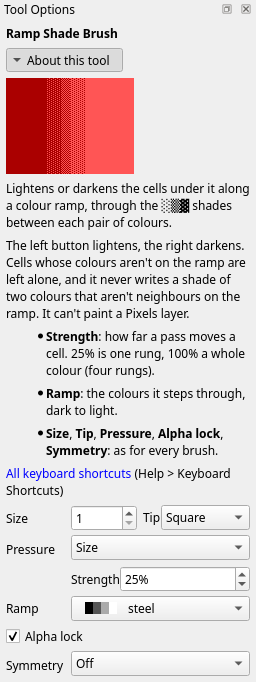
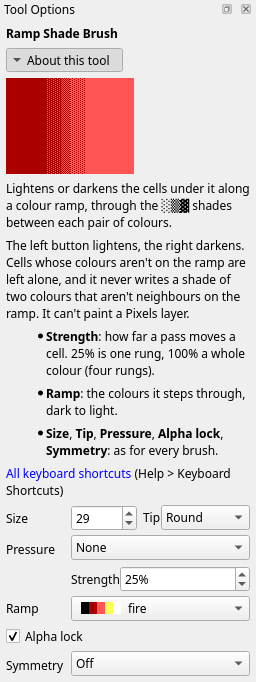
Tutorials 04–07, 09: dock pictures show each step's settings; checked against fd10778 (#22)
Tutorials 04–07 and 09 are checked against Blockwright fd10778. The twelve Tool Options pictures in 04–07 are regenerated with `blockwright --screenshot` from Blockwright #389, and each one now shows the settings in force at the step it is taken at: the options that step sets, and the rest as the steps before it left them. Before #389 these pictures showed the editor's default brush settings; only the tool and alpha lock followed the steps. The alt texts and lead-ins now name those settings and the step, and PLAN rows 04–07, 09 and §4.5 are updated to match.

diff --git a/PLAN.md b/PLAN.md
@@ -41,12 +41,12 @@ Status is against Blockwright's `main` on 2026-11-05 (`06fbac5`). Issue and PR n
 | 01 | What ANSI art is | Cells, CP437 glyphs, 16 colours, foreground and background, 80 columns, reading a piece at 1× | Written, checked against `c44974c` |
 | 02 | Your first piece | Keyboard mode, F-key glyph sets (Ctrl+, Ctrl+. Ctrl+/), the pen (Ctrl+arrows, Ctrl+D), undo, Save, the SAUCE dialog | Written, checked against `c44974c`; no window pictures yet (`--screenshot`, #374, can take them now) |
 | 03 | Pixels with half blocks | Why ▀▄█ make two pixels a cell; half-block brush, 4- vs 8-connected pencil, line, rectangle, ellipse, Filled Shapes, fill, eyedropper; iCE colours and bright backgrounds | Written, checked against `c44974c`; no window pictures yet (`--screenshot`, #374, can take them now) |
-| 04 | Shading: the ladder | ░▒▓ as rungs between two colours, the ten shipped ramps, the shade brush, the ramp shade brush, strength, pressure, alpha lock | Written, checked against `48592c8`: step pictures from `replay` steps files, dock pictures from `--screenshot`, final piece and Try-it file `.bwp` from `replay --project`; pressure is described, not pictured (§4) |
-| 05 | Shading: forms and falloff | Form shading (dome, cylinder, plane), soft falloff, ramp gradient tool, blend/smudge, despeckle | Written, checked against `749832e`: step pictures from `replay` steps files, dock pictures from `--screenshot` (they show each tool's default settings), final piece and Try-it file `.bwp` from `replay --project`; 4×4 Bayer banding is described, not pictured |
-| 06 | Light | Choosing a light direction, the rim light brush (Ctrl+Shift+L) and its eight compass points, form shading's light, highlights and glints; where the rim light can't help (counters, thin bars, canvas edges) | Written, checked against `30be847`: step pictures from `replay` steps files, dock pictures from `--screenshot` (they show each tool's default settings), final piece and Try-it file `.bwp` from `replay --project` |
-| 07 | Detail | Outline brush, texture stamps, glyph spray, clone stamp, symmetry: mirror X/Y, both, radial 2–8 | Written, checked against `2e5b906`: step pictures from `replay` steps files, dock pictures from `--screenshot` (they show each tool's default settings), final piece and Try-it file `.bwp` from `replay --project`; the clone stamp is described, not pictured (`replay` has no clone action, and `--screenshot` can't select its tool) |
+| 04 | Shading: the ladder | ░▒▓ as rungs between two colours, the ten shipped ramps, the shade brush, the ramp shade brush, strength, pressure, alpha lock | Written, checked against `fd10778`: step pictures from `replay` steps files, dock pictures from `--screenshot` (Tool Options set as the step it is taken at), final piece and Try-it file `.bwp` from `replay --project`; pressure is described, not pictured (§4) |
+| 05 | Shading: forms and falloff | Form shading (dome, cylinder, plane), soft falloff, ramp gradient tool, blend/smudge, despeckle | Written, checked against `fd10778`: step pictures from `replay` steps files, dock pictures from `--screenshot` (Tool Options set as the step it is taken at), final piece and Try-it file `.bwp` from `replay --project`; 4×4 Bayer banding is described, not pictured |
+| 06 | Light | Choosing a light direction, the rim light brush (Ctrl+Shift+L) and its eight compass points, form shading's light, highlights and glints; where the rim light can't help (counters, thin bars, canvas edges) | Written, checked against `fd10778`: step pictures from `replay` steps files, dock pictures from `--screenshot` (Tool Options set as the step it is taken at), final piece and Try-it file `.bwp` from `replay --project` |
+| 07 | Detail | Outline brush, texture stamps, glyph spray, clone stamp, symmetry: mirror X/Y, both, radial 2–8 | Written, checked against `fd10778`: step pictures from `replay` steps files, dock pictures from `--screenshot` (Tool Options set as the step it is taken at), final piece and Try-it file `.bwp` from `replay --project`; the clone stamp is described, not pictured (`replay` has no clone action, and `--screenshot` can't select its tool) |
 | 08 | Composing a scene | Selections, move, flip, rotate, paste modes (normal, transparent, under), guides, reference image, Library stamps, Scene Starter | Selections, move/transform, flip, rotate, paste modes, guides, reference image and the Library (dock, Save to Library) merged; the Scene Starter isn't on `main`; samples and Try-it file are `.bwp` (§6) |
-| 09 | Layers and projects | Layer kinds (cells, pixels, text, generator, reference), compositing, the project file, snapshots | Written, checked against `b771df7`: step pictures and Try-it file `.bwp` from `replay --project` steps files, dock pictures from `--screenshot`, snapshots from `blockwright-cli snapshot` (the same snapshot as **File > Take Snapshot**, which `replay` has no action for), the flat copy from `convert`; Text, Generator and Reference layers and the layer modes are described, not pictured (Text layers are 10's, generators 12's, the reference image 08's; the app has no control for the mode) |
+| 09 | Layers and projects | Layer kinds (cells, pixels, text, generator, reference), compositing, the project file, snapshots | Written, checked against `fd10778`: step pictures and Try-it file `.bwp` from `replay --project` steps files, dock pictures from `--screenshot`, snapshots from `blockwright-cli snapshot` (the same snapshot as **File > Take Snapshot**, which `replay` has no action for), the flat copy from `convert`; Text, Generator and Reference layers and the layer modes are described, not pictured (Text layers are 10's, generators 12's, the reference image 08's; the app has no control for the mode) |
 | 10 | Letters and text | Lettering by hand, letters that misread at 1× (C/G, R/A, 0/D), TDF text layers | Ready to write: the Text tool and TDF fonts merged (#18) |
 | 11 | Made for IRC | The 407-byte line budget, trailing black and blank rows, glyphs CP437 can't hold, `export --irc`, the row meter, IRC view, lint panel, publish | Ready to write: `export --irc`, the row meter, IRC view, lint panel and publish merged (#14, #15, #16) |
 | 12 | Scripts and generators | Generator layers, parameter forms, smart prefabs, the headless CLI | Generator layers and their parameter forms merged (#17); smart prefabs aren't on `main`; CLI `render`, `convert`, `export`, `shade`, `lint`, `replay` merged; samples are `.bwp` (§6) |
@@ -88,7 +88,7 @@ Findings from reading Blockwright's `PLAN.md` and its CLI on 2026-10-23, brought
 2. **Pictures with a layer hidden.** No command renders a project with a layer left out, but `render` honours each layer's `visible` flag in a project directory: `blockwright-cli unpack final.bwp dir`, set `"visible": false` in `dir/layers/<id>.json`, then `blockwright-cli render dir out.png`. Checked against `c44974c` on a three-layer project: hiding the middle layer leaves the other two. Until Blockwright has a flag for it, a "with this layer hidden" picture is made that way, by the build or a sample script, never saved by hand.
 3. **The shortcuts page and the menu reference come from `blockwright --list-actions`** (#209): every menu and dock action as JSON, with its id, menu path, text, shortcuts and tooltip. The build doesn't read it yet; 04's menu paths and shortcuts were checked against it.
 4. **The CLI page is generated** from `blockwright-cli --help` and each command's help.
-5. **Window screenshots come from `blockwright --screenshot <steps.json> -o <dir>`** (#374, the first slice of #295, which stays open). It plays the same steps file as `replay` in the main window, offscreen, and saves the window, a dock or a crop per step. At `06fbac5` the Tool Options widgets and the palette show the app's defaults, not a step's brush options: only the selected tool, the layers, alpha lock and the lint follow the steps. So a tutorial pictures the docks that follow (Tool Options for which settings a tool has, the Layers and Lint docks), not the window after every step.
+5. **Window screenshots come from `blockwright --screenshot <steps.json> -o <dir>`** (#374, the first slice of #295, which stays open). It plays the same steps file as `replay` in the main window, offscreen, and saves the window, a dock or a crop per step. At `fd10778` (#389) the Tool Options widgets and the palette follow the steps too: each step's options (size, tip, strength, ramp, fg, bg and the rest) are set on them. An option no step has set yet shows what `replay` starts with (size 1, square tip, strength 100%, no pressure, the fire ramp, grey on black), not the editor's defaults; once a step sets it, every later step that leaves it out shows the value the steps before it left (`core/include/blockwright/steps.h:84`), so a step with no options shows what it inherited, not the starting values. A ramp given as palette indexes shows as a **Custom** entry in the ramp list. A top-level `"window": [w, h]` in the steps file (320–4096 a side) sizes the window, 1280×800 without one; the extra height goes to Tool Options. At 1280×800 the Ramp Shade Brush's Strength and Ramp rows are below the fold, so 04–07 take their dock pictures at 1280×1300. A tutorial pictures the docks (Tool Options at the step that uses the settings, the Layers and Lint docks), not the window after every step.
 6. **Rendering is ready.** `render --scale 2` gives the 2× view; `export --irc` gives each line's byte count.
 7. **Before/after toggles** are the one place JavaScript would help. `<details>` or two images side by side do without it.
 

diff --git a/tutorials/05-shading-forms-and-falloff.md b/tutorials/05-shading-forms-and-falloff.md
@@ -1,5 +1,5 @@
 Title: Shading: forms and falloff
-Checked: Blockwright 0.1.0 (749832e)
+Checked: Blockwright 0.1.0 (fd10778)
 
 # Shading: forms and falloff
 
@@ -25,9 +25,9 @@ The rest of the page is the tools that go round a form: the **ramp gradient** fo
 
 ### The form brush
 
-The **Form Brush** (**Tools > Form Brush**, <kbd>Ctrl</kbd>+<kbd>Shift</kbd>+<kbd>T</kbd>) shades a whole shape along the ramp in one click: a solid lit side, the fall, and the shadow side down to black. The shape is the selection, or with nothing selected the cells the click covers; with alpha lock on, those are the layer's opaque cells under the brush. Make the brush big enough to cover the whole shape. Either button does the same. Its options add **Light** and **Form**:
+The **Form Brush** (**Tools > Form Brush**, <kbd>Ctrl</kbd>+<kbd>Shift</kbd>+<kbd>T</kbd>) shades a whole shape along the ramp in one click: a solid lit side, the fall, and the shadow side down to black. The shape is the selection, or with nothing selected the cells the click covers; with alpha lock on, those are the layer's opaque cells under the brush. Make the brush big enough to cover the whole shape. Either button does the same. Its options add **Light** and **Form**, here set for the pillar in step 5 below:
 
-![The Tool Options dock for the Form Brush: a help text, then Size 1 with Tip Square, Pressure Size with Strength 25%, Ramp steel, Light NW with Form Dome, Form rim light unticked with Glint ticked, Alpha lock unticked, and Symmetry Off](../samples/05-shading-forms-and-falloff/form-options.png)
+![The Tool Options dock for the Form Brush: a help text, then Size 30 with Tip Square, Pressure None with Strength 100%, Ramp steel, Light NW with Form Cylinder, Form rim light unticked with Glint ticked, Alpha lock unticked, and Symmetry Off](../samples/05-shading-forms-and-falloff/form-options.png)
 
 **Light** is the compass point the light comes from, **NW** (the upper left) to start with. **Strength** is how far each cell moves toward the tone the form gives it: shade a form at 100%, so every cell gets there. **Form rim light** and **Glint** are about light more than form; leave them as they are until tutorial 06.
 
@@ -47,9 +47,9 @@ The cylinder is nine cells across, too few for the ladder to come down from whit
 
 ### The ramp gradient
 
-The **Ramp Gradient** (**Tools > Ramp Gradient**, <kbd>Ctrl</kbd>+<kbd>Shift</kbd>+<kbd>G</kbd>) fills with a gradient along the ramp: drag from where it starts to where it ends. It fills the selection, or the whole layer with nothing selected, and alpha lock keeps it to the opaque cells, as for the brushes. The left button runs from the **From** rung to the **To** rung; the right runs the other way. Its options:
+The **Ramp Gradient** (**Tools > Ramp Gradient**, <kbd>Ctrl</kbd>+<kbd>Shift</kbd>+<kbd>G</kbd>) fills with a gradient along the ramp: drag from where it starts to where it ends. It fills the selection, or the whole layer with nothing selected, and alpha lock keeps it to the opaque cells, as for the brushes. The left button runs from the **From** rung to the **To** rung; the right runs the other way. Its options, set for the wall in step 2 below:
 
-![The Tool Options dock for the Ramp Gradient: a help text, then Ramp steel, Gradient Linear with Banding Cell-banded, From rung 0 with To rung 12, and Alpha lock unticked](../samples/05-shading-forms-and-falloff/gradient-options.png)
+![The Tool Options dock for the Ramp Gradient: a help text, then Ramp violet, Gradient Radial with Banding Cell-banded, From rung 8 with To rung 1, and Alpha lock unticked](../samples/05-shading-forms-and-falloff/gradient-options.png)
 
 A bar of magenta, selected, before, and after a drag on the violet ramp from its left end to its right, from rung 0 to rung 12:
 
@@ -67,9 +67,9 @@ The radial row is a drag from the middle of its box to the right end, from rung 
 
 ### The soft brush
 
-The **Soft Brush** (**Tools > Soft Brush**, <kbd>Ctrl</kbd>+<kbd>Shift</kbd>+<kbd>N</kbd>) is the ramp shade brush with a soft edge: it moves the middle of the tip the most and its edge a rung, in rings that step down a rung at a time. That fade from the middle to the edge is its **falloff**. The left button lightens and the right darkens. Its options add **Hardness**:
+The **Soft Brush** (**Tools > Soft Brush**, <kbd>Ctrl</kbd>+<kbd>Shift</kbd>+<kbd>N</kbd>) is the ramp shade brush with a soft edge: it moves the middle of the tip the most and its edge a rung, in rings that step down a rung at a time. That fade from the middle to the edge is its **falloff**. The left button lightens and the right darkens. Its options add **Hardness**, here set for the shadows in step 9 below:
 
-![The Tool Options dock for the Soft Brush: a help text, then Size 1 with Tip Square, Pressure Size with Strength 25%, Ramp steel, Hardness 0%, Alpha lock unticked, and Symmetry Off](../samples/05-shading-forms-and-falloff/soft-options.png)
+![The Tool Options dock for the Soft Brush: a help text, then Size 8 with Tip Round, Pressure None with Strength 50%, Ramp wood, Hardness 0%, Alpha lock unticked, and Symmetry Off](../samples/05-shading-forms-and-falloff/soft-options.png)
 
 A field of brown, before, after one click on the wood ramp at 50% with **Size** 11, **Tip** **Round** and **Hardness** 0%, and after the same click with the right button:
 
@@ -91,9 +91,9 @@ At 0% the middle climbed three rungs, to `▓`, and the rungs step down a ring a
 
 ### The smudge brush
 
-The **Smudge Brush** (**Tools > Smudge Brush**, <kbd>Ctrl</kbd>+<kbd>Shift</kbd>+<kbd>M</kbd>) picks up the ramp colours under the tip and drags them along the stroke, like a finger through paint, and snaps what it lays back to the ramp's rungs. Each cell of the tip carries its own value, so a wide tip drags a patch. Either button does the same. Its options:
+The **Smudge Brush** (**Tools > Smudge Brush**, <kbd>Ctrl</kbd>+<kbd>Shift</kbd>+<kbd>M</kbd>) picks up the ramp colours under the tip and drags them along the stroke, like a finger through paint, and snaps what it lays back to the ramp's rungs. Each cell of the tip carries its own value, so a wide tip drags a patch. Either button does the same. Its options, set for the pillar's shadow in step 10 below:
 
-![The Tool Options dock for the Smudge Brush: a help text, then Size 1 with Tip Square, Pressure Size with Strength 25%, Ramp steel, Alpha lock unticked, and Symmetry Off](../samples/05-shading-forms-and-falloff/smudge-options.png)
+![The Tool Options dock for the Smudge Brush: a help text, then Size 2 with Tip Square, Pressure None with Strength 50%, Ramp wood, Alpha lock unticked, and Symmetry Off](../samples/05-shading-forms-and-falloff/smudge-options.png)
 
 A row of brown meeting a row of brown medium shade on red, before, and after one drag on the wood ramp at 50% with **Size** 1, from four cells left of where they meet to ten cells right of it:
 
@@ -107,9 +107,9 @@ A row of brown meeting a row of brown medium shade on red, before, and after one
 
 ### The despeckle brush
 
-The **Despeckle Brush** (**Tools > Despeckle Brush**, <kbd>Ctrl</kbd>+<kbd>Shift</kbd>+<kbd>D</kbd>) cleans up specks: a lone cell lighter or darker than every neighbour on the ramp takes the rung most of its neighbours share. Cells off the ramp, black, the ramp's top rung (a glint) and the cells of a Bayer gradient's dither are left alone, and so is any fix that would add a new lint finding. Either button does the same. Its options have no **Strength**:
+The **Despeckle Brush** (**Tools > Despeckle Brush**, <kbd>Ctrl</kbd>+<kbd>Shift</kbd>+<kbd>D</kbd>) cleans up specks: a lone cell lighter or darker than every neighbour on the ramp takes the rung most of its neighbours share. Cells off the ramp, black, the ramp's top rung (a glint) and the cells of a Bayer gradient's dither are left alone, and so is any fix that would add a new lint finding. Either button does the same. Its options have no **Strength**; here they are set for the clean-up in step 12 below:
 
-![The Tool Options dock for the Despeckle Brush: a help text, then Size 1 with Tip Square, Pressure Size, Ramp steel, Alpha lock unticked, and Symmetry Off](../samples/05-shading-forms-and-falloff/despeckle-options.png)
+![The Tool Options dock for the Despeckle Brush: a help text, then Size 12 with Tip Square, Pressure None, Ramp wood, Alpha lock unticked, and Symmetry Off](../samples/05-shading-forms-and-falloff/despeckle-options.png)
 
 A field of brown medium shade on red with six specks along its middle row, before, and after one drag of a size 5 brush along that row on the wood ramp. The specks, left to right: a cell a rung up, a cell a rung down, a cell two rungs up, a pair of cells a rung up, a cell of yellow (the top rung) and a cell of black:
 

diff --git a/tutorials/07-detail.md b/tutorials/07-detail.md
@@ -1,5 +1,5 @@
 Title: Detail
-Checked: Blockwright 0.1.0 (2e5b906)
+Checked: Blockwright 0.1.0 (fd10778)
 
 # Detail
 
@@ -23,9 +23,9 @@ Drawing a hundred small forms by hand is slow. The tools in this tutorial lay th
 
 ### The outline brush
 
-The **Outline Brush** (**Tools > Outline Brush**, <kbd>Ctrl</kbd>+<kbd>Shift</kbd>+<kbd>E</kbd>) draws a line one cell wide round a shape, on the shape's own edge cells. Each edge cell under the brush aims for the ramp colour one step darker than the darkest of the shape just inside it, so the line is the shape's own colour, a step down. Where that colour would add a lint finding, the cell takes a lighter shade instead, or keeps what it had. It reads the active layer. Either button does the same, and one stroke draws one line, however often it passes over a cell. Its options add **Outline the selection**:
+The **Outline Brush** (**Tools > Outline Brush**, <kbd>Ctrl</kbd>+<kbd>Shift</kbd>+<kbd>E</kbd>) draws a line one cell wide round a shape, on the shape's own edge cells. Each edge cell under the brush aims for the ramp colour one step darker than the darkest of the shape just inside it, so the line is the shape's own colour, a step down. Where that colour would add a lint finding, the cell takes a lighter shade instead, or keeps what it had. It reads the active layer. Either button does the same, and one stroke draws one line, however often it passes over a cell. Its options add **Outline the selection**, here set for the click over the yellow disc below:
 
-![The Tool Options dock for the Outline Brush: a help text, then Size 1 with Tip Square, Pressure Size, Ramp steel, Outline the selection unticked, Alpha lock unticked, and Symmetry Off](../samples/07-detail/outline-options.png)
+![The Tool Options dock for the Outline Brush: a help text, then Size 20 with Tip Square, Pressure None, Ramp fire, Outline the selection unticked, Alpha lock unticked, and Symmetry Off](../samples/07-detail/outline-options.png)
 
 Two discs on black, yellow on the fire ramp and grey on steel, before, and after one click over each with **Size** 20 and **Tip** **Square**, the yellow with **Ramp** **fire** and the grey with **Ramp** **steel**:
 
@@ -45,9 +45,9 @@ The left pair took one click with the option unticked. The grey box's edge cells
 
 ### The texture stamp
 
-The **Texture Stamp** (**Tools > Texture Stamp**, <kbd>Ctrl</kbd>+<kbd>Shift</kbd>+<kbd>P</kbd>) lays a field of small lit forms along the ramp: scales, foliage, a coin hoard, brick, or mottled stone. It paints over whatever the cells held, with either button, so make a selection first to keep it to a part of the canvas. Its options add **Light**, **Texture**, **Density** and **Seed**:
+The **Texture Stamp** (**Tools > Texture Stamp**, <kbd>Ctrl</kbd>+<kbd>Shift</kbd>+<kbd>P</kbd>) lays a field of small lit forms along the ramp: scales, foliage, a coin hoard, brick, or mottled stone. It paints over whatever the cells held, with either button, so make a selection first to keep it to a part of the canvas. Its options add **Light**, **Texture**, **Density** and **Seed**, here set for the scales below:
 
-![The Tool Options dock for the Texture Stamp: a help text, then Size 1 with Tip Square, Pressure Size, Ramp steel, Light NW, Texture Scales, Density 1.6 with Seed 1, Alpha lock unticked, and Symmetry Off](../samples/07-detail/texture-options.png)
+![The Tool Options dock for the Texture Stamp: a help text, then Size 64 with Tip Square, Pressure None, Ramp sea, Light NW, Texture Scales, Density 1.6 with Seed 1, Alpha lock unticked, and Symmetry Off](../samples/07-detail/texture-options.png)
 
 **Texture** is the kind of form. The five kinds, each stamped with one click inside a selection of a box 24 columns by 8 rows, lit from the north-west at **Density** 1.6 and **Seed** 1:
 
@@ -63,9 +63,9 @@ At 0.3 one brick fills the box from column 2 to its right edge and from row 1 to
 
 ### The glyph spray
 
-The **Glyph Spray** (**Tools > Glyph Spray**, <kbd>Ctrl</kbd>+<kbd>Shift</kbd>+<kbd>Y</kbd>) scatters stars, haze or smoke over the cells it passes. Its options add **Spray**, **Density** and **Seed**:
+The **Glyph Spray** (**Tools > Glyph Spray**, <kbd>Ctrl</kbd>+<kbd>Shift</kbd>+<kbd>Y</kbd>) scatters stars, haze or smoke over the cells it passes. Its options add **Spray**, **Density** and **Seed**, here set for the stars below:
 
-![The Tool Options dock for the Glyph Spray: a help text, then Size 1 with Tip Square, Pressure Size, Ramp steel, Spray Stars, Density 30% with Seed 1, Alpha lock unticked, and Symmetry Off](../samples/07-detail/spray-options.png)
+![The Tool Options dock for the Glyph Spray: a help text, then Size 64 with Tip Square, Pressure None, Ramp steel, Spray Stars, Density 100% with Seed 1, Alpha lock unticked, and Symmetry Off](../samples/07-detail/spray-options.png)
 
 **Stars** are small glyphs in the pen's foreground: `.`, `·`, `∙`, `+`, `*` and `☼`. A star goes only on open ground: no other colour within four columns and two rows of it, so stars keep off shapes. The right button takes stars off again. **Density** is how many stars, as a percentage, 30% to start with. Like the texture, the stars are fixed to the canvas by their **Seed**. A grey disc on black, before, and after one click of white stars over the whole canvas at **Density** 100%, with **Size** 64 and **Tip** **Square**:
 

diff --git a/tutorials/04-shading-the-ladder.md b/tutorials/04-shading-the-ladder.md
@@ -1,5 +1,5 @@
 Title: Shading: the ladder
-Checked: Blockwright 0.1.0 (48592c8)
+Checked: Blockwright 0.1.0 (fd10778)
 
 # Shading: the ladder
 
@@ -44,9 +44,9 @@ Each pair of neighbours has four rungs between it, so fire, with five colours, i
 
 ### The shade brush
 
-The **Shade Brush** (**Tools > Shade Brush**, <kbd>Ctrl</kbd>+<kbd>Shift</kbd>+<kbd>B</kbd>) climbs one ladder, the pen's: its background is A and its foreground is B. Each time the brush passes over a cell, the cell goes up a rung: space, `░`, `▒`, `▓`, `█`. The right button takes a rung back down. Cells that hold anything else, such as letters or half blocks, are left alone. Its options in the **Tool Options** dock:
+The **Shade Brush** (**Tools > Shade Brush**, <kbd>Ctrl</kbd>+<kbd>Shift</kbd>+<kbd>B</kbd>) climbs one ladder, the pen's: its background is A and its foreground is B. Each time the brush passes over a cell, the cell goes up a rung: space, `░`, `▒`, `▓`, `█`. The right button takes a rung back down. Cells that hold anything else, such as letters or half blocks, are left alone. Its options in the **Tool Options** dock, set for the floor's first drag in step 2 below:
 
-![The Tool Options dock for the Shade Brush: a help text, then Size with Tip, Pressure, Alpha lock and Symmetry](../samples/04-shading-the-ladder/shade-options.png)
+![The Tool Options dock for the Shade Brush: a help text, then Size 12 with Tip Square, Pressure None, Alpha lock unticked, and Symmetry Off](../samples/04-shading-the-ladder/shade-options.png)
 
 **Size** is how many cells wide the brush is, and **Tip** is its shape, **Square** or **Round**. **Tools > Smaller Brush** (<kbd>Ctrl</kbd>+<kbd>[</kbd>) and **Tools > Larger Brush** (<kbd>Ctrl</kbd>+<kbd>]</kbd>) change the size from the keyboard.
 
@@ -60,9 +60,9 @@ A bar of blue spaces, before, after four passes of light blue over blue (each pa
 
 ### The ramp shade brush
 
-The **Ramp Shade Brush** (**Tools > Ramp Shade Brush**, <kbd>Ctrl</kbd>+<kbd>T</kbd>) climbs a whole ramp instead of one ladder. The left button lightens each cell under it along the ramp, through the rungs between each pair of colours, and the right button darkens. It reads what each cell already shows, so it doesn't use the pen. Cells whose colours aren't on the ramp are left alone, and it never writes a shade of two colours that aren't neighbours on the ramp. Its options add **Strength** and **Ramp**:
+The **Ramp Shade Brush** (**Tools > Ramp Shade Brush**, <kbd>Ctrl</kbd>+<kbd>T</kbd>) climbs a whole ramp instead of one ladder. The left button lightens each cell under it along the ramp, through the rungs between each pair of colours, and the right button darkens. It reads what each cell already shows, so it doesn't use the pen. Cells whose colours aren't on the ramp are left alone, and it never writes a shade of two colours that aren't neighbours on the ramp. Its options add **Strength** and **Ramp**, here set for the ball's first light click in step 6 below:
 
-![The Tool Options dock for the Ramp Shade Brush: a help text, then Size with Tip, Pressure with Strength at 25%, Ramp, Alpha lock and Symmetry](../samples/04-shading-the-ladder/ramp-shade-options.png)
+![The Tool Options dock for the Ramp Shade Brush: a help text, then Size 29 with Tip Round, Pressure None with Strength 25%, Ramp fire, Alpha lock ticked, and Symmetry Off](../samples/04-shading-the-ladder/ramp-shade-options.png)
 
 A blue bar again, before, and after passes on the ice ramp: the left button climbed about two thirds of it from blue through light blue and light cyan to white, and the right button took the left end down to black:
 
@@ -80,7 +80,7 @@ Shade a form at 25%, so you can stop on any rung. At higher strengths one pass m
 
 ### Pressure
 
-**Pressure** is what a stylus's pressure scales: **Size**, **Strength**, or **None**. It starts at **Size**. A mouse always presses fully, so with a mouse it changes nothing.
+**Pressure** is what a stylus's pressure scales: **Size**, **Strength**, or **None**. It starts at **Size**. A mouse always presses fully, so with a mouse it changes nothing. The **Tool Options** pictures on this page show it at **None**, which paints the same with a mouse.
 
 ### Alpha lock
 

diff --git a/tutorials/06-light.md b/tutorials/06-light.md
@@ -1,5 +1,5 @@
 Title: Light
-Checked: Blockwright 0.1.0 (30be847)
+Checked: Blockwright 0.1.0 (fd10778)
 
 # Light
 
@@ -23,11 +23,11 @@ Which side to light from is up to you. The upper left is the usual choice and Bl
 
 ### The form brush's light
 
-The **Form Brush**'s options, as it starts:
+The **Form Brush**'s options, set for the stone's form in step 7 below:
 
-![The Tool Options dock for the Form Brush: a help text, then Size 1 with Tip Square, Pressure Size with Strength 25%, Ramp steel, Light NW with Form Dome, Form rim light unticked with Glint ticked, Alpha lock ticked, and Symmetry Off](../samples/06-light/form-options.png)
+![The Tool Options dock for the Form Brush: a help text, then Size 26 with Tip Square, Pressure None with Strength 100%, Ramp steel, Light NE with Form Dome, Form rim light ticked with Glint unticked, Alpha lock ticked, and Symmetry Off](../samples/06-light/form-options.png)
 
-Tutorial 05 left **Light** at **NW**. It is a point of the compass: **N**, **NE**, **E**, **SE**, **S**, **SW**, **W** or **NW**, the side the light comes from, with north at the top of the canvas. Eight domes, each lit from the point it stands at round the rose:
+Tutorial 05 left **Light** at **NW**; the stone is lit from **NE**. **Light** is a point of the compass: **N**, **NE**, **E**, **SE**, **S**, **SW**, **W** or **NW**, the side the light comes from, with north at the top of the canvas. Eight domes, each lit from the point it stands at round the rose:
 
 ![Eight grey domes in a ring on black round the words "light from", each labelled with a point of the compass: NW, N and NE across the top, W and E at the sides, SW, S and SE across the bottom. Each dome is white on the side of the point it stands at and falls to dark grey on the side away from it](../samples/06-light/light-rose.ans "2x")
 
@@ -35,9 +35,9 @@ The N dome's white is at its top and the S dome's at its bottom, the E dome's at
 
 ### The rim light brush
 
-The **Rim Light Brush** (**Tools > Rim Light Brush**, <kbd>Ctrl</kbd>+<kbd>Shift</kbd>+<kbd>L</kbd>) lights a shape's edge. Under the brush, the cells on the shape's edge that face the light go one rung lighter. The shape is the active layer's cells on the ramp, other than black. One stroke lights only one cell deep, however often it passes over a cell. Either button does the same. Its options add **Light** and **Keep the lint clean**:
+The **Rim Light Brush** (**Tools > Rim Light Brush**, <kbd>Ctrl</kbd>+<kbd>Shift</kbd>+<kbd>L</kbd>) lights a shape's edge. Under the brush, the cells on the shape's edge that face the light go one rung lighter. The shape is the active layer's cells on the ramp, other than black. One stroke lights only one cell deep, however often it passes over a cell. Either button does the same. Its options add **Light** and **Keep the lint clean**, here set for the hills' rim in step 4 below:
 
-![The Tool Options dock for the Rim Light Brush: a help text, then Size 1 with Tip Square, Pressure Size, Ramp steel, Light NW, Keep the lint clean unticked, Alpha lock ticked, and Symmetry Off](../samples/06-light/rim-options.png)
+![The Tool Options dock for the Rim Light Brush: a help text, then Size 64 with Tip Square, Pressure None, Ramp grass, Light NE, Keep the lint clean ticked, Alpha lock ticked, and Symmetry Off](../samples/06-light/rim-options.png)
 
 A disc of grey, steel's rung 8, on a layer of its own, before, and after one click from the north-west with **Size** 64 and **Tip** **Square**, big enough to cover it:
 

diff --git a/tutorials/09-layers-and-projects.md b/tutorials/09-layers-and-projects.md
@@ -1,5 +1,5 @@
 Title: Layers and projects
-Checked: Blockwright 0.1.0 (b771df7)
+Checked: Blockwright 0.1.0 (fd10778)
 
 # Layers and projects
 
